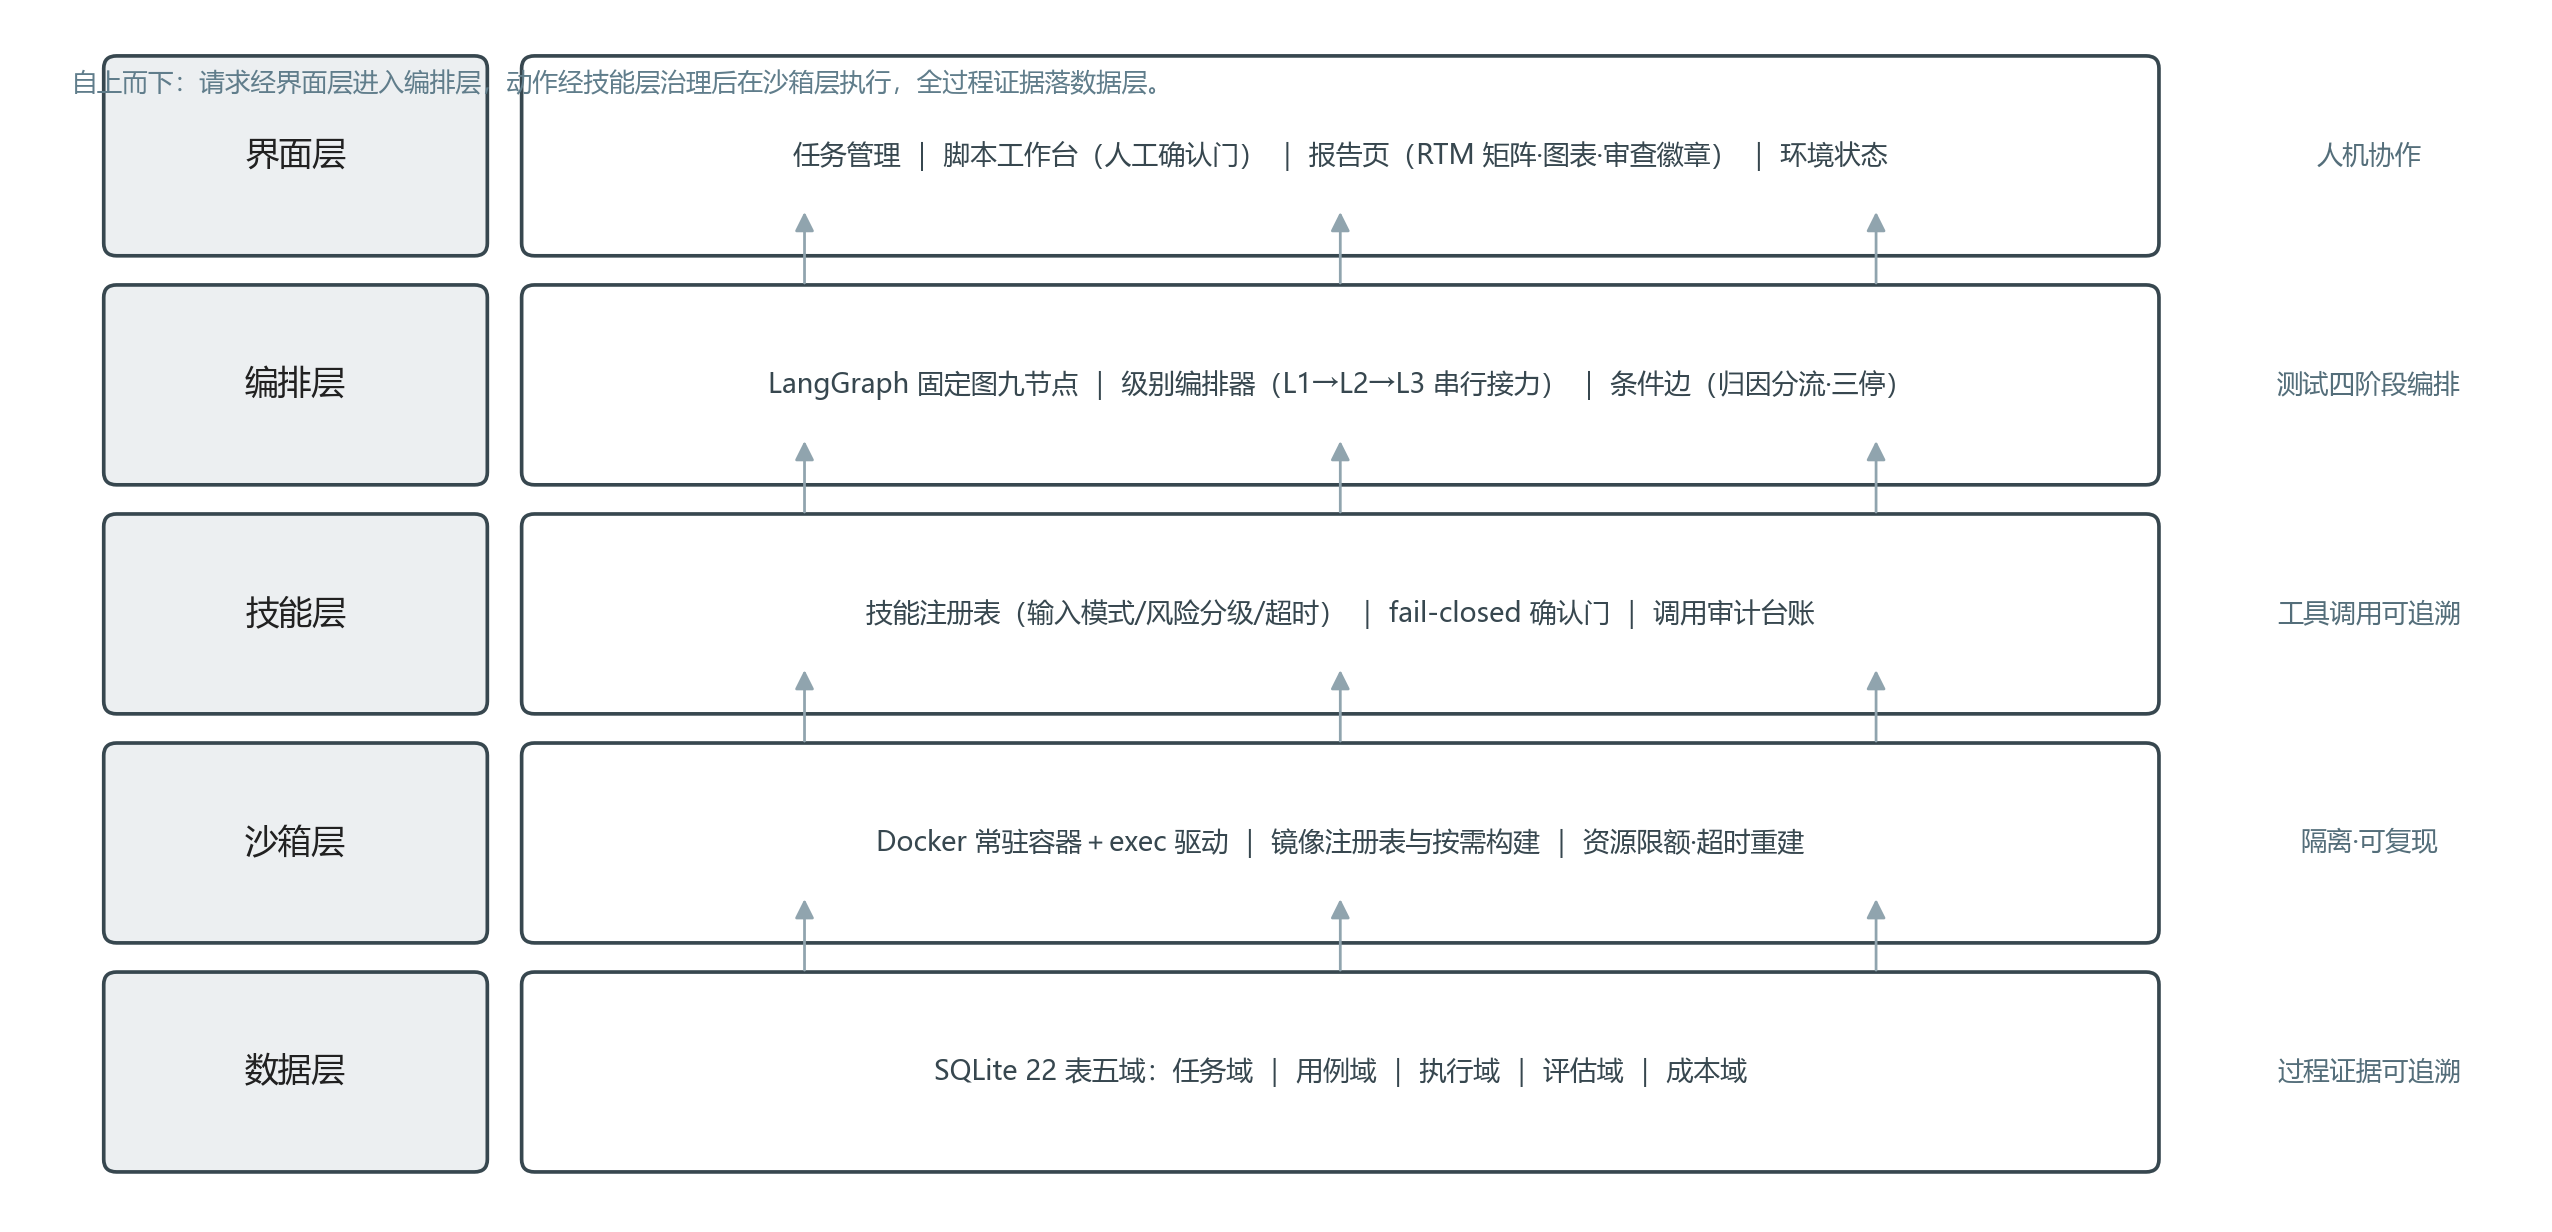
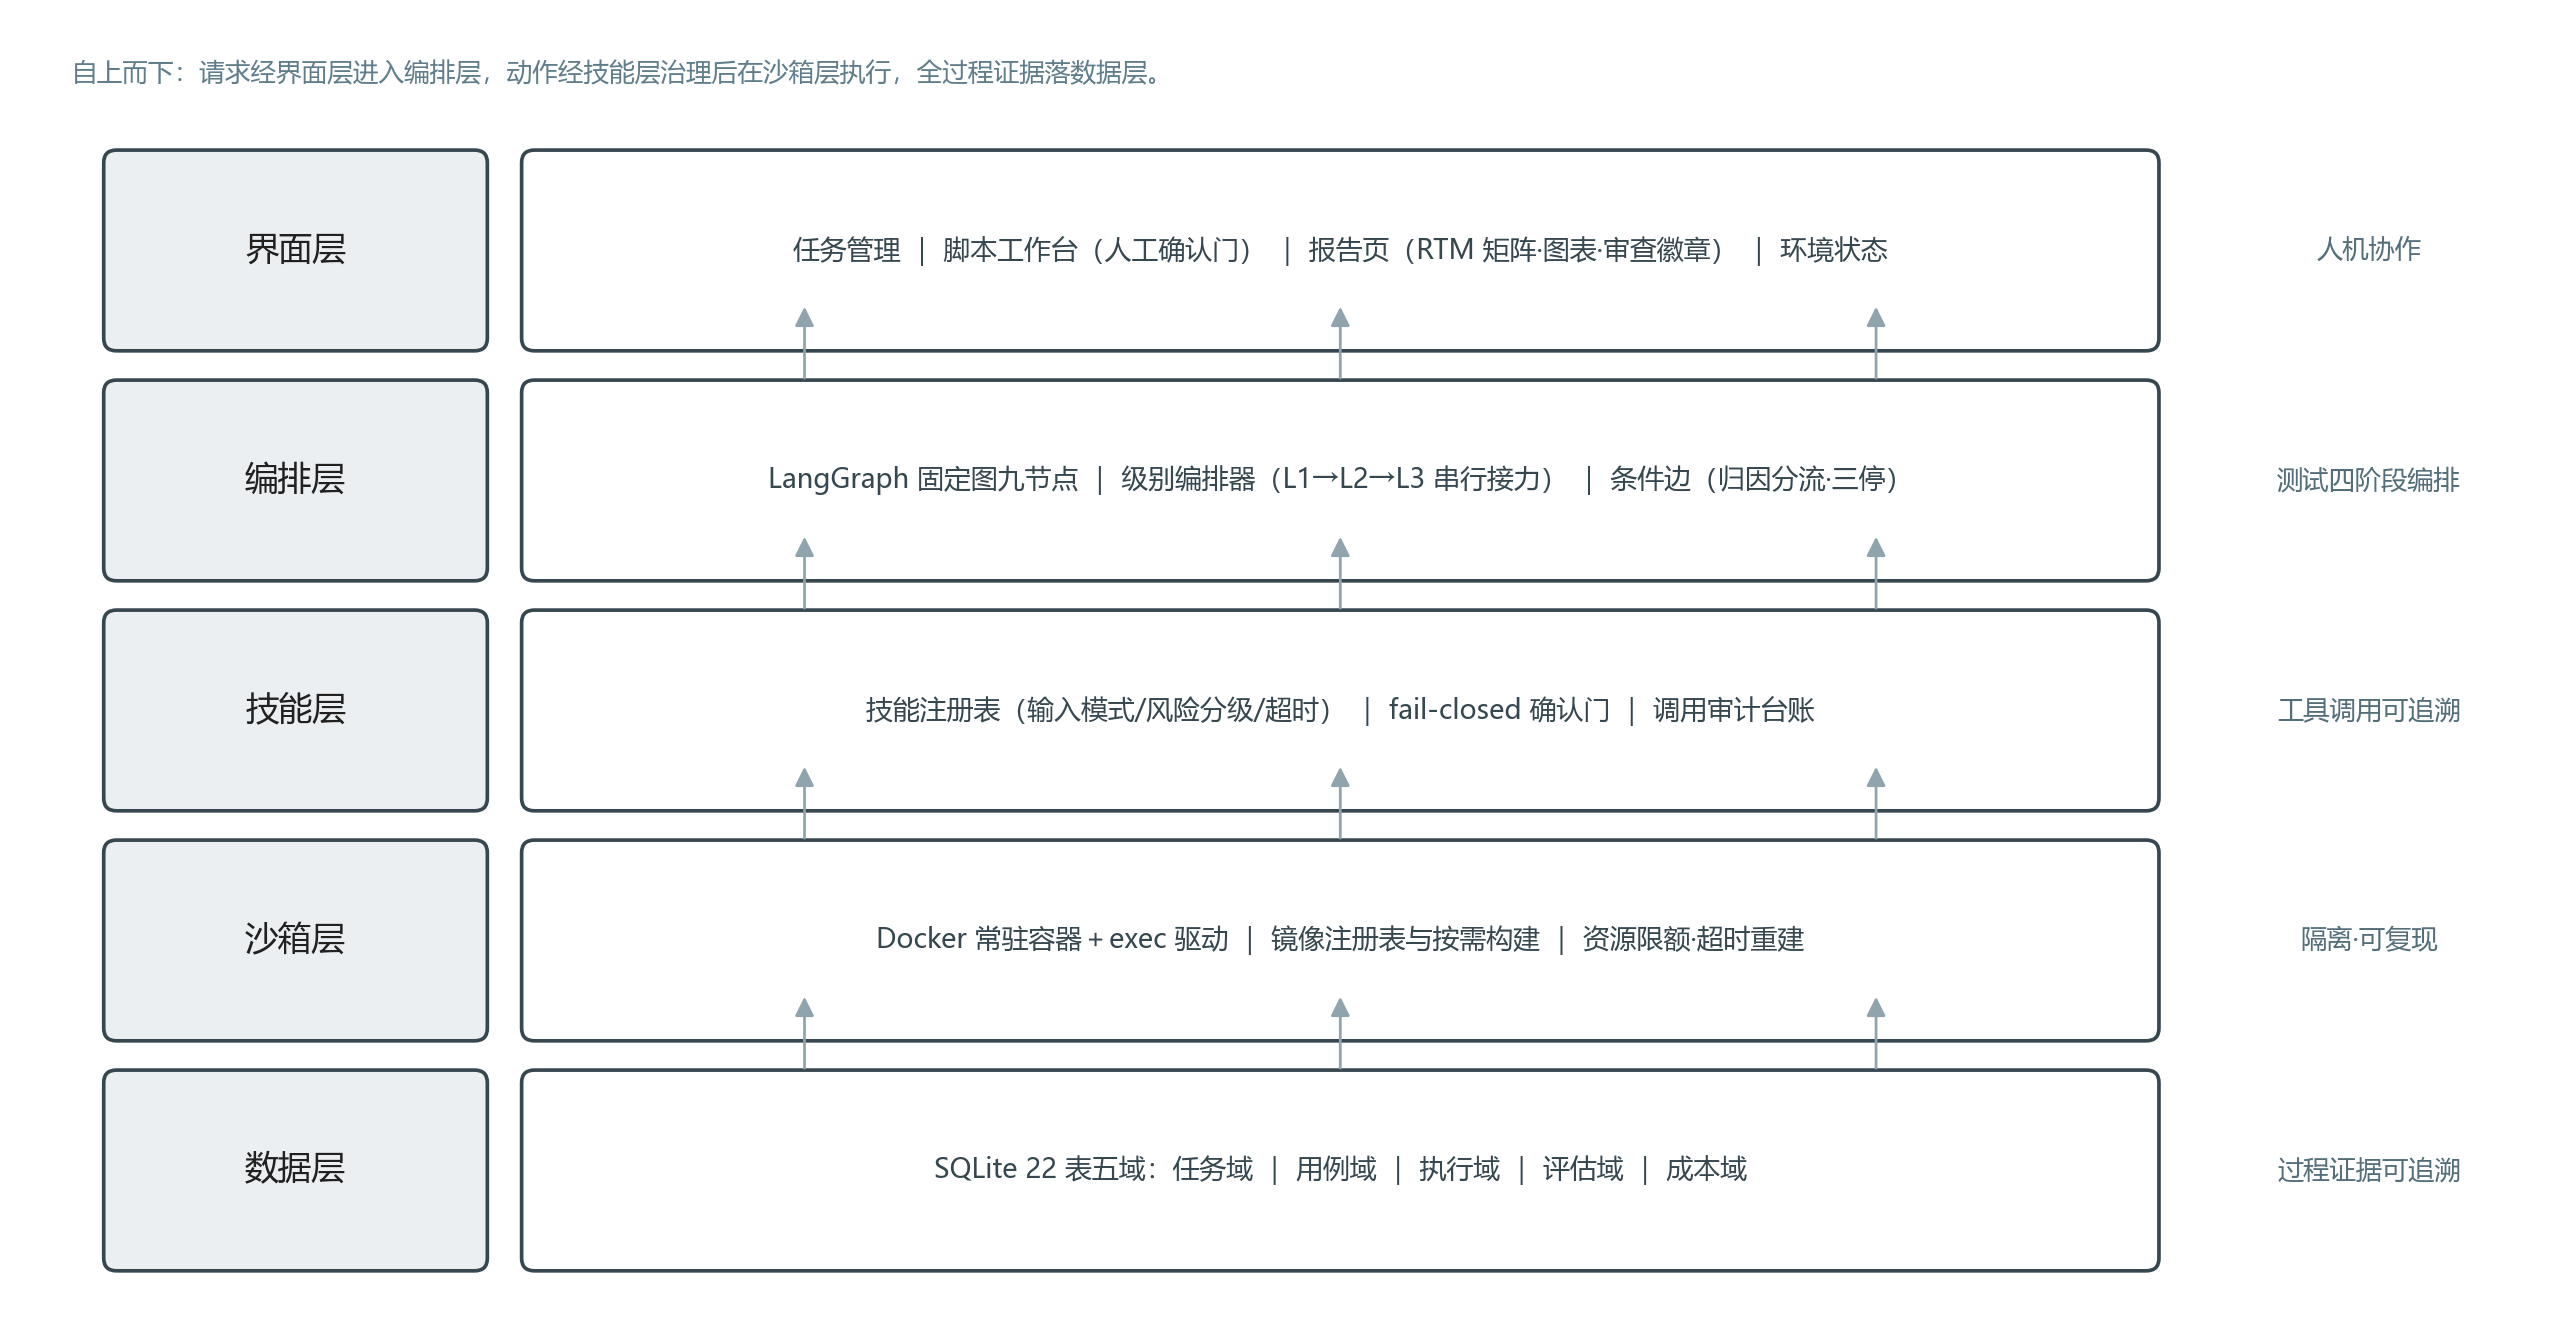
loop-5: 图4-1 caption 与界面层框重叠 | 证据: 目检(旧 PNG caption y=5.32 撞框顶 5.47) | 改动: 画布扩 6.05+caption 上移 5.82 | 验证: 重生成目检零重叠 | 回归: 不涉代码 343/105

diff --git a/scripts/make_thesis_figures.py b/scripts/make_thesis_figures.py
@@ -58,8 +58,10 @@ def fig3_1():
 
 # ---------------- 图 4-1 五层总体架构 ----------------
 def fig4_1():
-    fig, ax = plt.subplots(figsize=(11.6, 5.6))
-    ax.set_xlim(0, 11.6); ax.set_ylim(0, 5.6); ax.axis("off")
+    # Loop-5（TODO-11）：原 ylim 5.6 时 caption(y=5.32) 撞界面层框顶(y=5.47)——
+    # 画布扩到 6.05，caption 移到框顶之上的独立行
+    fig, ax = plt.subplots(figsize=(11.6, 6.05))
+    ax.set_xlim(0, 11.6); ax.set_ylim(0, 6.05); ax.axis("off")
     layers = [
         (4.55, "界面层", "任务管理 ｜ 脚本工作台（人工确认门） ｜ 报告页（RTM 矩阵·图表·审查徽章） ｜ 环境状态", "人机协作"),
         (3.45, "编排层", "LangGraph 固定图九节点 ｜ 级别编排器（L1→L2→L3 串行接力） ｜ 条件边（归因分流·三停）", "测试四阶段编排"),
@@ -75,7 +77,7 @@ def fig4_1():
     for y in (3.45, 2.35, 1.25, 0.15):
         for x in (3.6, 6.1, 8.6):
             arrow(ax, x, y + 0.92, x, y + 1.32, style="-", color=ACC, lw=0.9)
-    ax.text(0.18, 5.32, "自上而下：请求经界面层进入编排层，动作经技能层治理后在沙箱层执行，全过程证据落数据层。",
+    ax.text(0.18, 5.82, "自上而下：请求经界面层进入编排层，动作经技能层治理后在沙箱层执行，全过程证据落数据层。",
             fontsize=8.4, color="#607D8B")
     fig.tight_layout(); fig.savefig(f"{OUT}/图4-1_五层总体架构.png", dpi=220); plt.close(fig)
 
